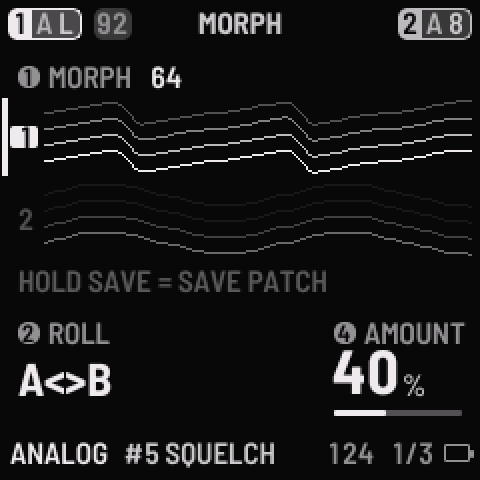
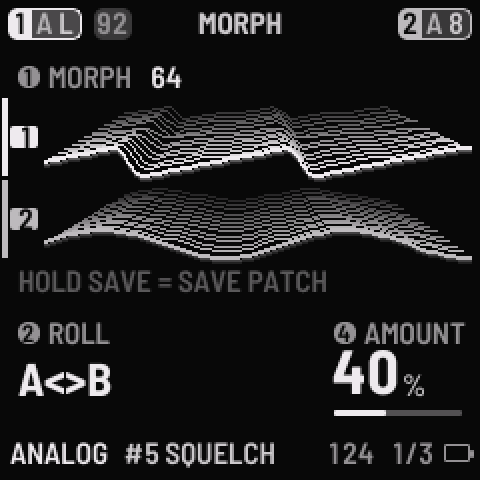
README and landing screenshots for the b5 one-part selection and wave page

Changed region(s): [[0.0, 0.1875, 1.0, 0.5625], [0.9375, 0.1875, 0.9688, 0.25]]

diff --git a/felucca-base/web/landing.html b/felucca-base/web/landing.html
@@ -72,16 +72,16 @@
       <p>The glide runs from A to B and back, never quite the same way twice. It is made for playing the FM-1 as a background: nothing has to be managed live, and a hand on the knob can take over at any time. The pattern can glide with the sound.</p>
       <div class="shots">
         <figure class="shot">
-          <img src="img/auto-tide-both-parts.png" width="240" height="240" alt="The AUTO TIDE page of the FM-1 with both parts wandering to B: the sound and sequence faders of parts 1 and 2, part 1 selected, 16 bars, wait 2 bars." loading="lazy">
-          <figcaption><b>AUTO TIDE</b>The glide's state on knob 1's line, with both parts. MODE, TIME and WAIT are on knobs 2 to 4.</figcaption>
+          <img src="img/auto-tide-both-parts.png" width="240" height="240" alt="The AUTO TIDE page of the FM-1 with PART set to BOTH, both parts wandering to B: the sound and sequence faders of parts 1 and 2, 16 bars, wait 2 bars." loading="lazy">
+          <figcaption><b>AUTO TIDE</b>The glide's state on knob 1's line, with PART set to BOTH. MODE, TIME and WAIT are on knobs 2 to 4.</figcaption>
         </figure>
         <figure class="shot">
           <img src="img/morph-settings.png" width="240" height="240" alt="The TIDE SETTINGS page: style, target sound plus seq, vary bars every 4th, roll music, roll arp, roll pitch." loading="lazy">
           <figcaption><b>TIDE SETTINGS</b>What the tide moves and how a new End B is made.</figcaption>
         </figure>
         <figure class="shot">
-          <img src="img/morph-gliding.png" width="240" height="240" alt="The MORPH page with the fader at 64: each part's sound drawn as waves, part 1 above and part 2 below." loading="lazy">
-          <figcaption><b>MORPH</b>Each part's real sound as waves, like an oscilloscope: a held note stands still, a chord beats.</figcaption>
+          <img src="img/morph-gliding.png" width="240" height="240" alt="The MORPH page with PART set to BOTH and the fader at 64: each part's sound drawn as live waves, part 1 above and part 2 below, both tagged." loading="lazy">
+          <figcaption><b>MORPH</b>PART 1, PART 2 or BOTH: each part's real sound as live waves, like an oscilloscope: a held note stands still, a chord beats.</figcaption>
         </figure>
       </div>
       <p class="small">Screenshots from the <a href="emu/">web emulator</a>.</p>

diff --git a/README.md b/README.md
@@ -18,7 +18,7 @@ It is made for playing the FM-1 as a **background**: set a tide going, then play
 
 | AUTO TIDE | TIDE SETTINGS | MORPH, mid-glide |
 |:---:|:---:|:---:|
-| <img src="docs/tide/auto-tide-both-parts.png" width="260" alt="AUTO TIDE page, both parts wandering to B: the SOUND and SEQ faders of parts 1 and 2, part 1 selected with its number in a filled tag, both parts' steps, MODE WANDER, TIME 16 bars, WAIT 2 bars"> | <img src="docs/tide/morph-settings.png" width="260" alt="TIDE SETTINGS page: STYLE, TARGET SND+SEQ, VARY BARS EVERY 4TH, ROLL MUSIC, ROLL ARP, ROLL PITCH; the rest of the rows scroll below"> | <img src="docs/tide/morph-gliding.png" width="260" alt="MORPH page: each part's output drawn as waves, part 1 above (selected, bright, its number in a filled tag) and part 2 below (dimmed); MORPH 64, ROLL and AMOUNT 40 %"> |
+| <img src="docs/tide/auto-tide-both-parts.png" width="260" alt="AUTO TIDE page with PART set to BOTH, both parts wandering to B: the SOUND and SEQ faders of parts 1 and 2, both parts' steps, MODE WANDER, TIME 16 bars, WAIT 2 bars"> | <img src="docs/tide/morph-settings.png" width="260" alt="TIDE SETTINGS page: STYLE, TARGET SND+SEQ, VARY BARS EVERY 4TH, ROLL MUSIC, ROLL ARP, ROLL PITCH; the rest of the rows scroll below"> | <img src="docs/tide/morph-gliding.png" width="260" alt="MORPH page with PART set to BOTH: each part's output drawn as live waves, part 1 above and part 2 below, both tagged and bright; MORPH 64, ROLL and AMOUNT 40 %"> |
 | The glide, both parts, with their steps. | STYLE on top, then how the tide behaves. | DUELL's MORPH page follows the glide. |
 
 *Screens rendered from the firmware's own drawing code; try them live in the [web emulator](https://pssdrnk-cmyk.github.io/DUELL-TIDE/emu/).*
